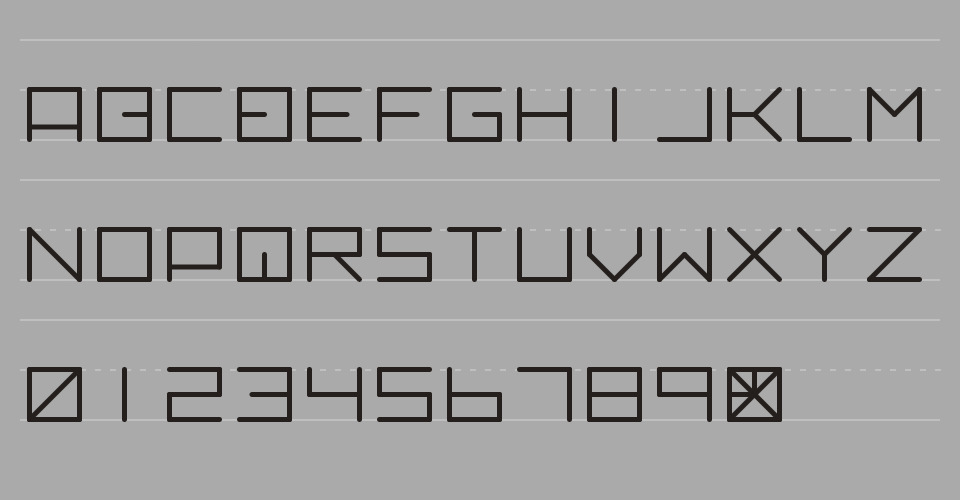
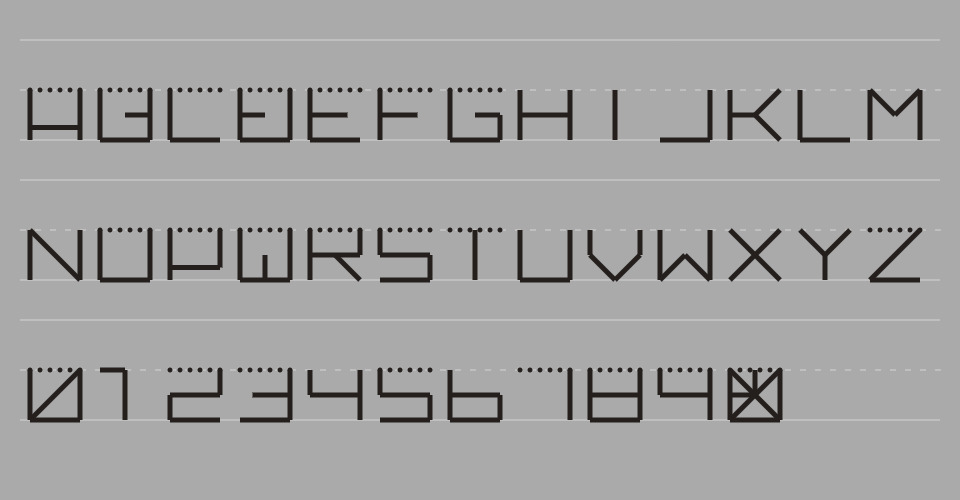
testing custom line function

diff --git a/letters.js b/letters.js
@@ -158,17 +158,6 @@ const alphabet = {
     "vLine1Length": 100
   },
   "M": {
-    // "hLine1XPos": 0,
-    // "hLine1YPos": 0,
-    // "vLine1XPos": 0,
-    // "vLine1YPos": 0,
-    // "vLine1Length": 100,
-    // "vLine2XPos": 100,
-    // "vLine2YPos": 0,
-    // "vLine2Length": 100,
-    // "vLine3XPos": 50,
-    // "vLine3YPos": 0,
-    // "vLine3Length": 75
     "vLine1XPos": 0,
     "vLine1YPos": 0,
     "vLine1Length": 100,
@@ -296,17 +285,6 @@ const alphabet = {
     "dLine2Length": 50
   },
   "W": {
-    // "hLine2XPos": 0,
-    // "hLine2YPos": 100,
-    // "vLine1XPos": 0,
-    // "vLine1YPos": 0,
-    // "vLine1Length": 100,
-    // "vLine2XPos": 100,
-    // "vLine2YPos": 0,
-    // "vLine2Length": 100,
-    // "vLine3XPos": 50,
-    // "vLine3YPos": 25,
-    // "vLine3Length": 75
     "vLine1XPos": 0,
     "vLine1YPos": 0,
     "vLine1Length": 100,
@@ -364,6 +342,9 @@ const alphabet = {
     "dLine2Length": 100
   },
   "1": {
+    "hLine3XPos": 0,
+    "hLine3YPos": 0,
+    "hLine3Length": 50,
     "vLine3XPos": 50,
     "vLine3YPos": 0,
     "vLine3Length": 100

diff --git a/draw_letters.js b/draw_letters.js
@@ -47,7 +47,7 @@ function drawLetter(letterData) {
 
   
   // draw horizontal lines
-  line(hLine1XPos, hLine1YPos, 100 + hLine1XPos, hLine1YPos);
+  customLine();
   line(hLine2XPos, hLine2YPos, 100 + hLine2XPos, hLine2YPos);
   line(hLine3XPos, hLine3YPos, hLine3Length + hLine3XPos, hLine3YPos);
 
@@ -60,6 +60,20 @@ function drawLetter(letterData) {
   line(dLine1XPos, dLine1YPos, dLine1Length + dLine1XPos, dLine1Length + dLine1YPos);
   line(dLine2XPos, dLine2YPos, dLine2XPos - dLine2Length, dLine2Length + dLine2YPos);
   pop();
+
+  // custom line function to draw dotted line
+
+  function customLine() {
+    point(hLine1XPos, hLine1YPos);
+    point(hLine1XPos + 20, hLine1YPos);
+    point(hLine1XPos + 40, hLine1YPos);
+    point(hLine1XPos + 60, hLine1YPos);
+    point(hLine1XPos + 80, hLine1YPos);
+    point(hLine1XPos + 100, hLine1YPos);
+
+
+  }
+
 }
 
 function interpolate_letter(percent, oldObj, newObj) {
